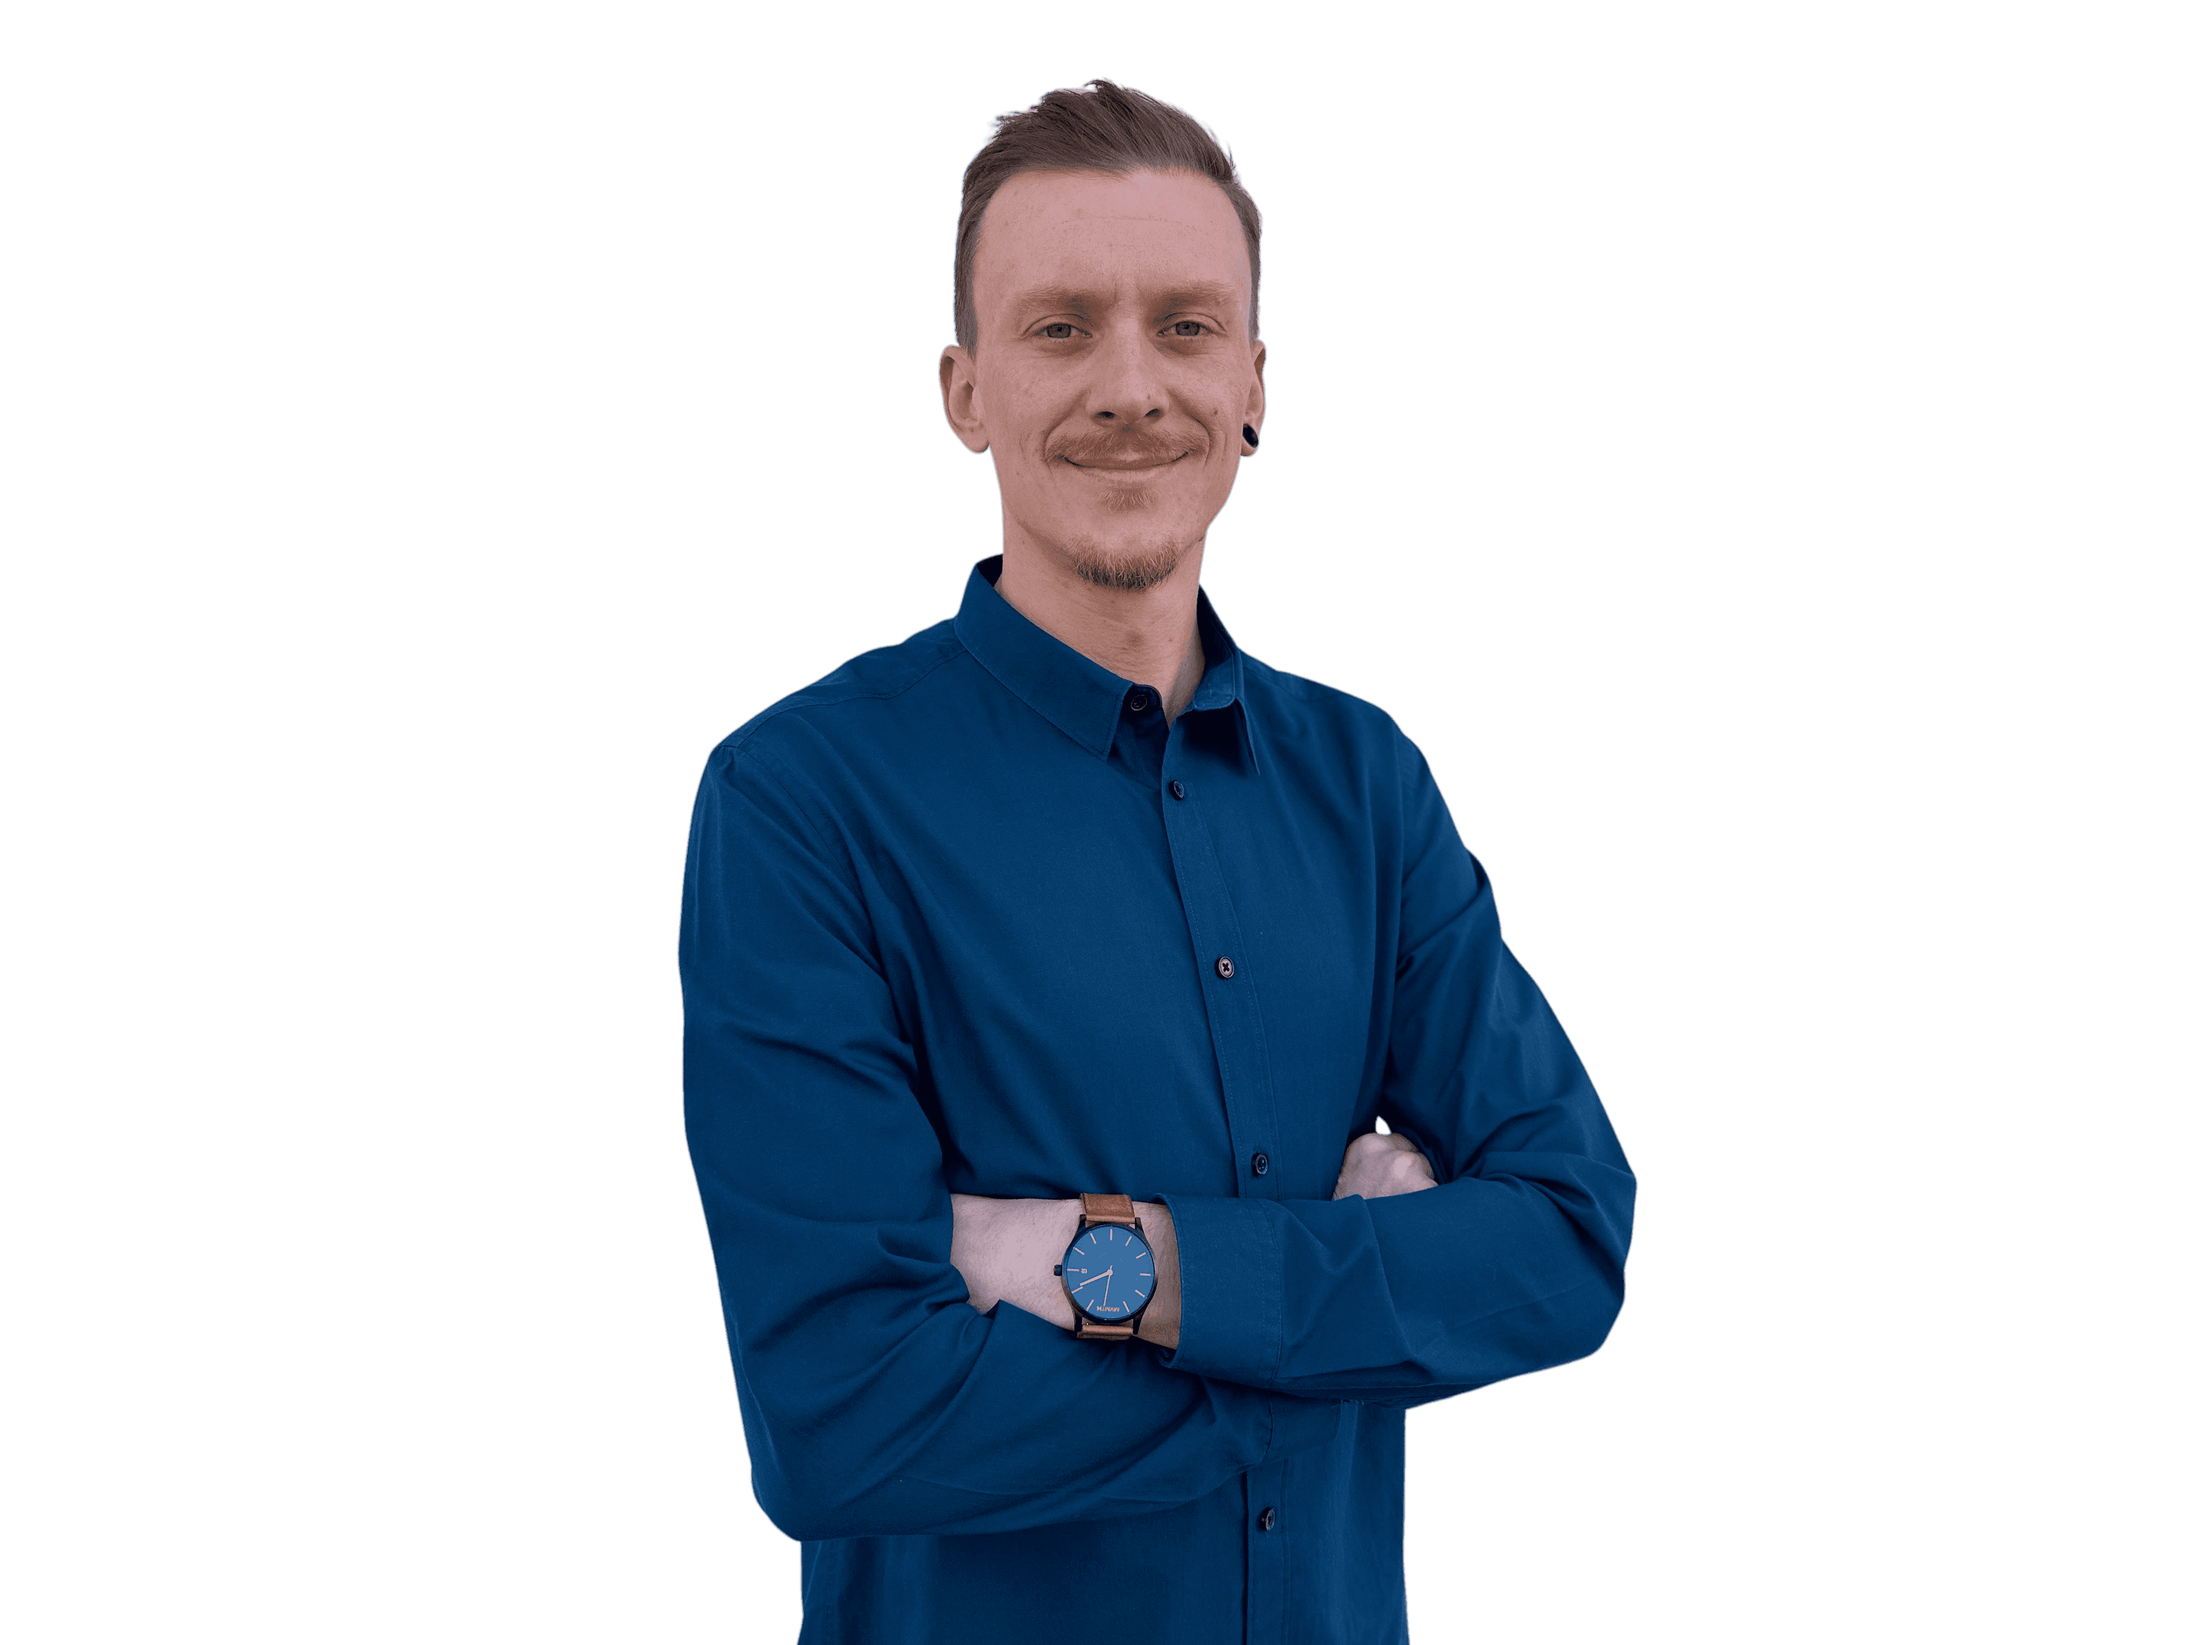
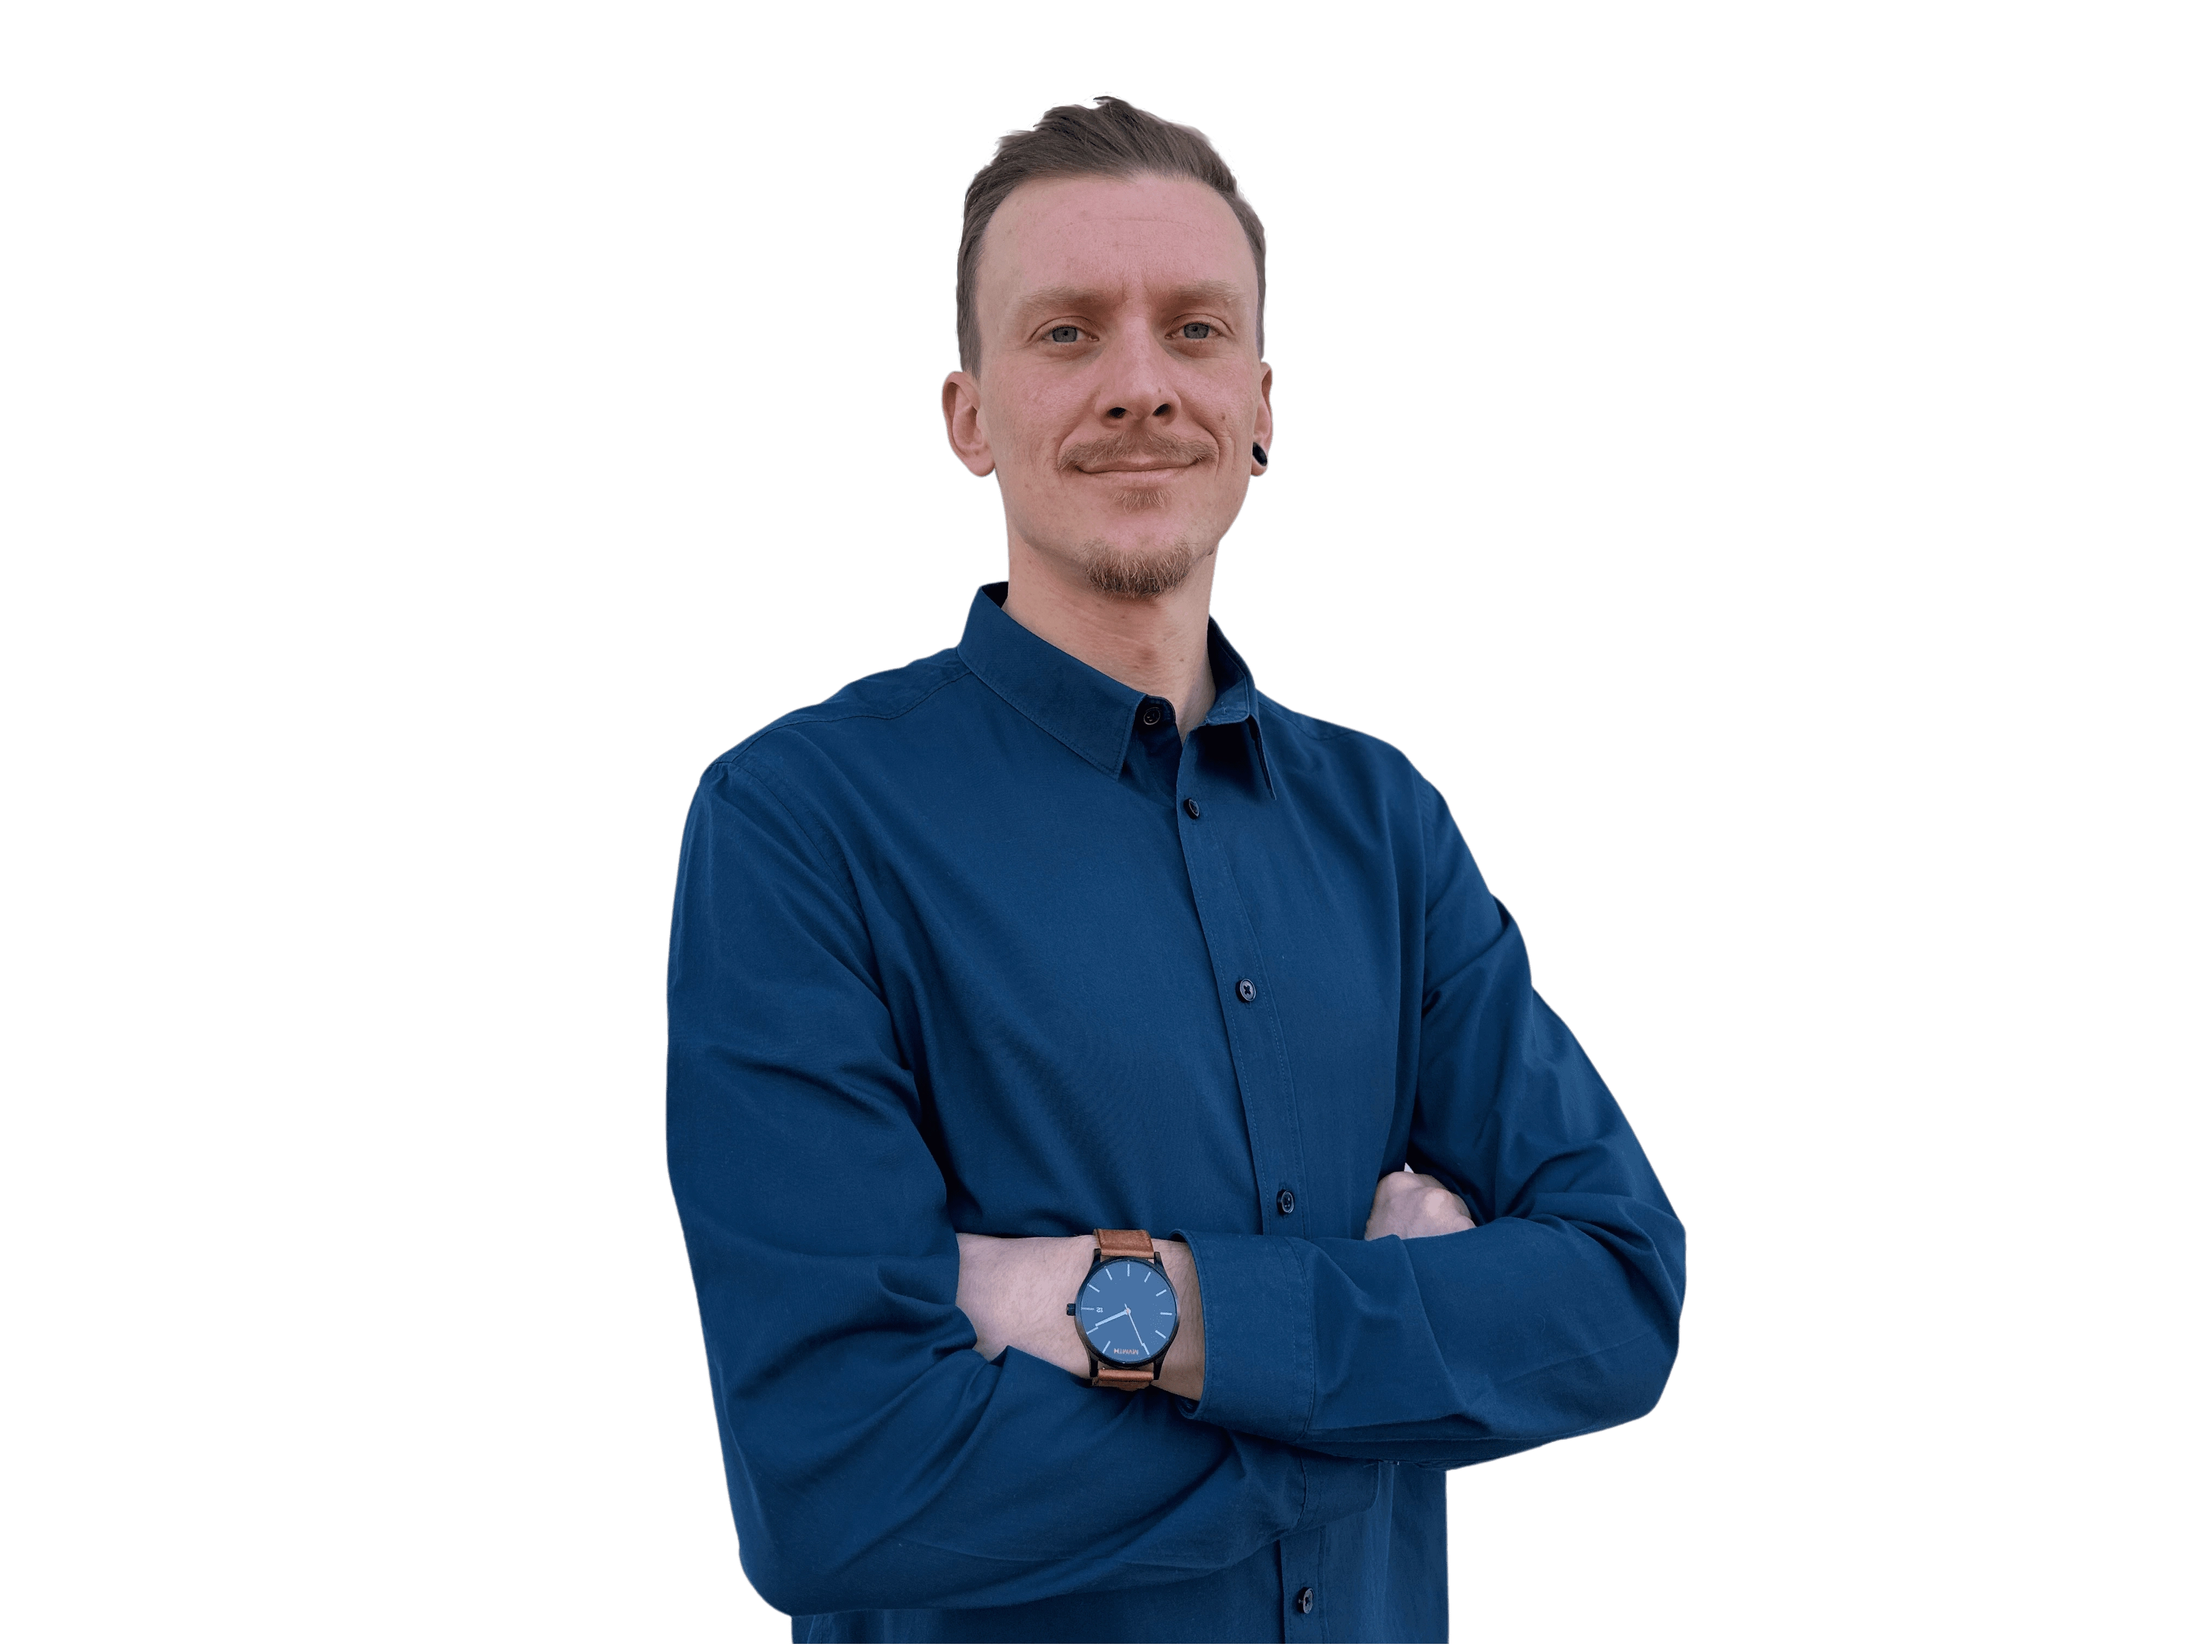
added about me text

Changed region(s): [[0.2812, 0.0311, 0.7812, 1.0]]

diff --git a/src/app/about-me/about-me.component.html b/src/app/about-me/about-me.component.html
@@ -3,30 +3,31 @@
         <div class="about_me_container">
             <h2>About me</h2>
             <div class="about_me_box">
-                <p><b><u>Den Text werde ich wenn ich das bewerbungsmodul angeschaut hab schreiben, wie auch noch ein
-                            anderes
-                            Bild von mir hinzufügen</u></b>. Placeat nostrum in reprehenderit, culpa
-                    dolores, laudantium quam soluta delectus obcaecati aspernatur accusantium ex fuga fugiat officiis
-                    earum
-                    vero pariatur ut? Incidunt!
-                    Lorem ipsum dolor sit amet consectetur adipisicing elit. Est sequi perferendis ipsa, animi officia
-                    reprehenderit sed repellat voluptatem deleniti vero placeat at quod voluptates cumque impedit, id
-                    repellendus fugit architecto.
+                <p>
+                    Hello there! I'm Kevin an enthusiastic Front-End Developer with a passion for creating appealing and
+                    efficient
+                    applications. My focus is on providing users with intuitive and visually compelling applications
+                    that ensure the best possible user experience. With my expertise in JavaScript, Angular, and
+                    TypeScript, I constantly strive to create innovative and user-friendly solutions.
                 </p>
             </div>
             <div class="about_me_personal_box">
                 <img data-aos="flip-left" data-aos-easing="ease-out-cubic" data-aos-duration="2000" data-aos-once="true"
                     src="assets/img/bulb_desktop.png" alt="blue bulb logo">
-                <p>Lorem ipsum dolor sit amet consectetur adipisicing elit. Est sequi perferendis ipsa, animi officia
-                    reprehenderit sed repellat voluptatem deleniti vero placeat at quod voluptates cumque impedit, id
-                    repellendus fugit architecto.</p>
+                <p>
+                    My fascination with technology began in my childhood, ultimately leading me to Front-End
+                    development. During my education at the Developer Academy, I gained valuable practical experience,
+                    including working on my own projects and successfully collaborating in group projects. I always
+                    leveraged the latest technologies in web development.
+                </p>
             </div>
             <div class="about_me_personal_box">
                 <img data-aos="flip-left" data-aos-easing="ease-out-cubic" data-aos-duration="2000" data-aos-once="true"
                     src="assets/img/puzzle_desktop.png" alt="blue puzzle logo">
-                <p>Lorem ipsum dolor sit amet consectetur adipisicing elit. Est sequi perferendis ipsa, animi officia
-                    reprehenderit sed repellat voluptatem deleniti vero placeat at quod voluptates cumque impedit, id
-                    repellendus fugit architecto.</p>
+                <p>
+                    I invite you to explore my portfolio, and I look forward to getting to know you better. Together, we
+                    can achieve great things.
+                </p>
             </div>
         </div>
         <div class="picture_container">

diff --git a/src/app/home/home.component.scss b/src/app/home/home.component.scss
@@ -65,7 +65,7 @@
 
 .picture_me {
     position: absolute;
-    bottom: 70px;
+    bottom: 88px;
     left: -7vw;
     width: clamp(600px, 50vw, 850px);
     height: auto;
